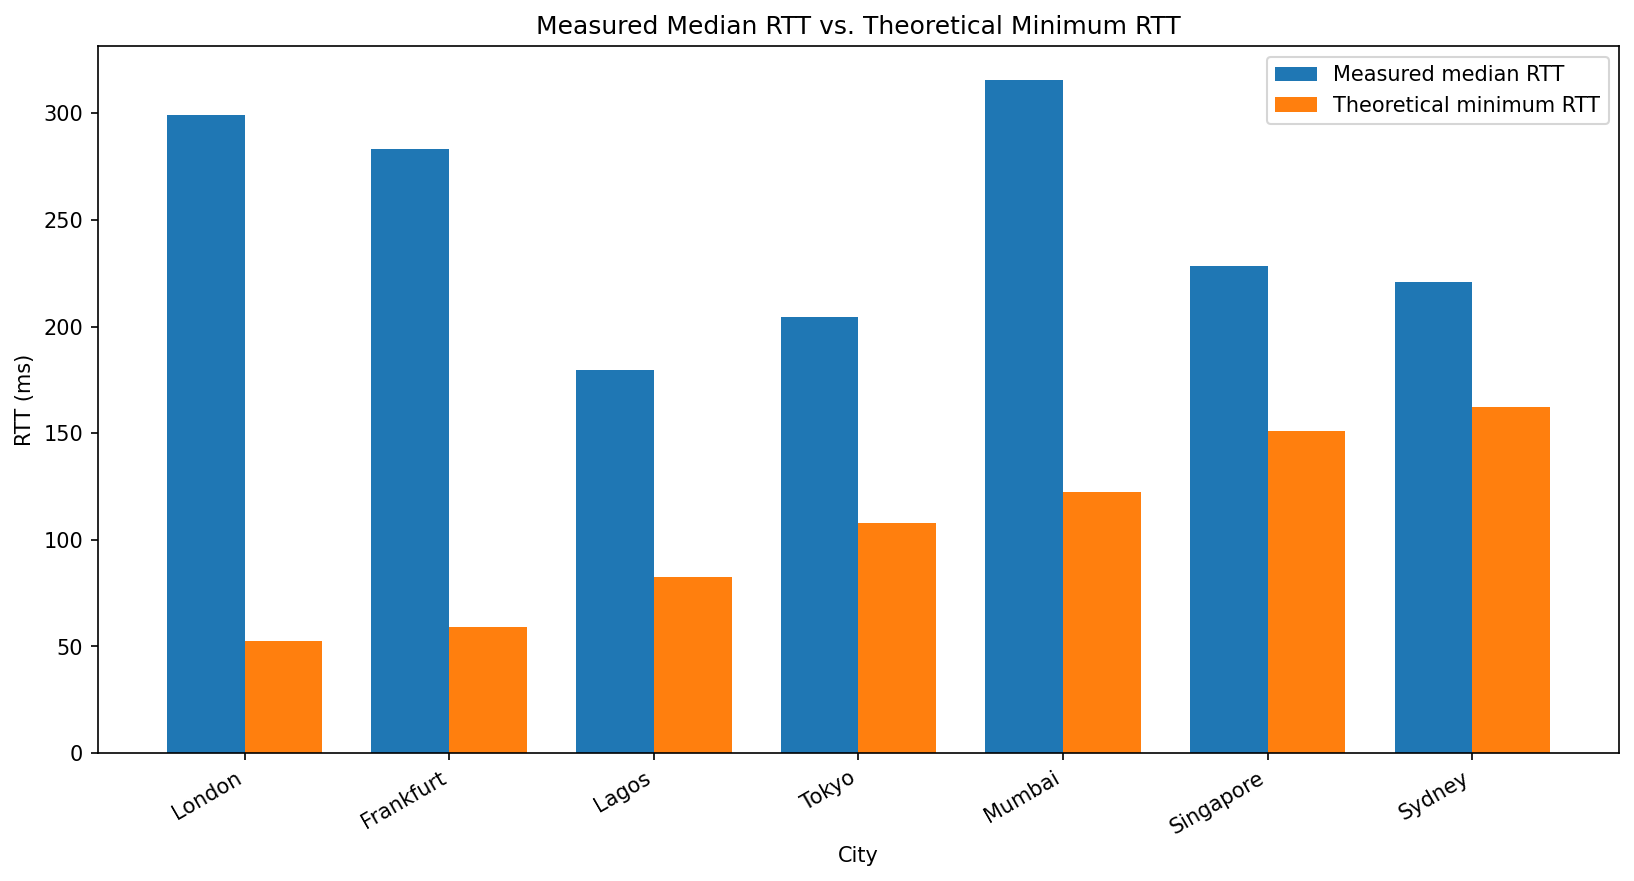
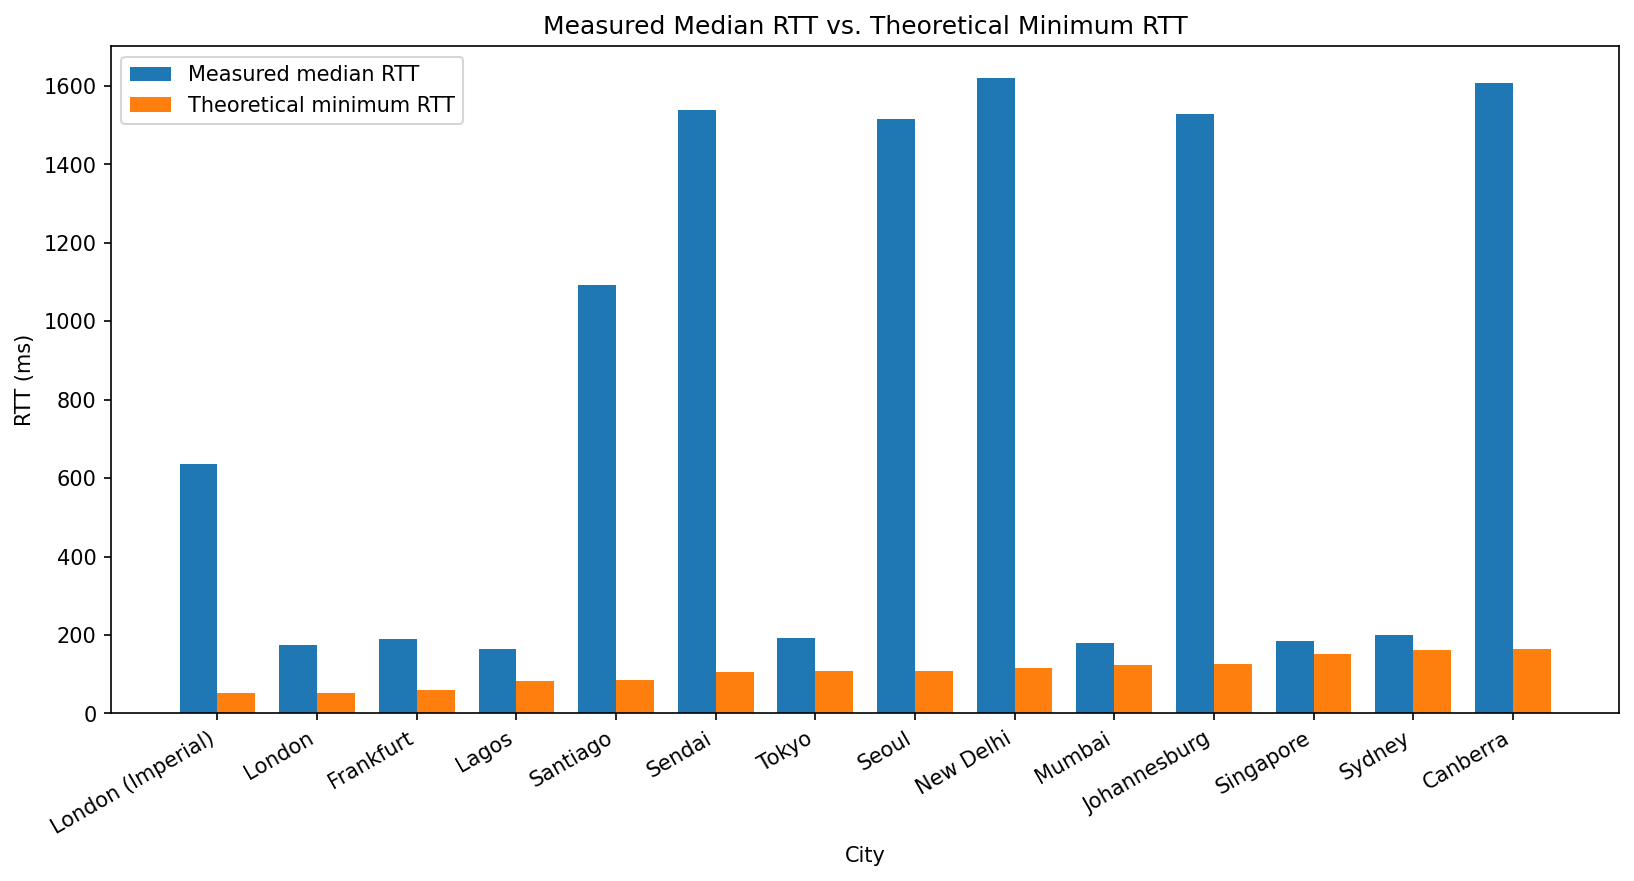
Updated analysis for new targets

diff --git a/rtt_speedoflight.py b/rtt_speedoflight.py
@@ -13,14 +13,22 @@ import urllib.request
 # ─────────────────────────────────────────────
 
 TARGETS = {
-    "Tokyo":        {"url": "http://www.google.co.jp",   "coords": (35.6762,  139.6503), "continent": "Asia"},
-    "São Paulo":    {"url": "http://www.google.com.br",  "coords": (-23.5505, -46.6333), "continent": "S. America"},
-    "Lagos":        {"url": "http://www.google.com.ng",  "coords": (6.5244,     3.3792), "continent": "Africa"},
-    "Frankfurt":    {"url": "http://www.google.de",      "coords": (50.1109,    8.6821), "continent": "Europe"},
-    "Sydney":       {"url": "http://www.google.com.au",  "coords": (-33.8688, 151.2093), "continent": "Oceania"},
-    "Mumbai":       {"url": "http://www.google.co.in",   "coords": (19.0760,   72.8777), "continent": "Asia"},
-    "London":       {"url": "http://www.google.co.uk",   "coords": (51.5074,   -0.1278), "continent": "Europe"},
-    "Singapore":    {"url": "http://www.google.com.sg",  "coords": (1.3521,   103.8198), "continent": "Asia"},
+    "Tokyo":                {"url": "http://www.google.co.jp",      "coords": (35.6762,  139.6503), "continent": "Asia"},
+    "São Paulo":            {"url": "http://www.google.com.br",     "coords": (-23.5505, -46.6333), "continent": "S. America"},
+    "Lagos":                {"url": "http://www.google.com.ng",     "coords": (6.5244,     3.3792), "continent": "Africa"},
+    "Frankfurt":            {"url": "http://www.google.de",         "coords": (50.1109,    8.6821), "continent": "Europe"},
+    "Sydney":               {"url": "http://www.google.com.au",     "coords": (-33.8688, 151.2093), "continent": "Oceania"},
+    "Mumbai":               {"url": "http://www.google.co.in",      "coords": (19.0760,   72.8777), "continent": "Asia"},
+    "London":               {"url": "http://www.google.co.uk",      "coords": (51.5074,   -0.1278), "continent": "Europe"},
+    "Singapore":            {"url": "http://www.google.com.sg",     "coords": (1.3521,   103.8198), "continent": "Asia"},
+    "Sendai":               {"url": "http://www.tohoku.ac.jp",      "coords": (38.2682, 140.8694),  "continent": "Asia"},
+    "Seoul":                {"url": "http://www.snu.ac.kr",         "coords": (37.5665, 126.9780),  "continent": "Asia"},
+    "New Delhi":            {"url": "http://www.iitd.ac.in",        "coords": (28.6139, 77.2090),   "continent": "Asia"},
+    "Santiago":             {"url": "http://www.uchile.cl",         "coords": (-33.4489, -70.6693), "continent": "S. America"},
+    "Johannesburg":         {"url": "http://www.wits.ac.za",        "coords": (-26.2041, 28.0473),  "continent": "Africa"},
+    "Berlin":               {"url": "http://www.fu-berlin.de",      "coords": (52.5200, 13.4050),   "continent": "Europe"},
+    "London (Imperial)":    {"url": "http://www.imperial.ac.uk",    "coords": (51.4988, -0.1749),   "continent": "Europe"},
+    "Canberra":             {"url": "http://www.anu.edu.au",        "coords": (-35.2809, 149.1300), "continent": "Oceania"},
 }
 
 PROBES           = 15

diff --git a/analysis.md b/analysis.md
@@ -2,19 +2,36 @@ Programming Assignment Analysis
 EECE 2540  
 Justin Glabicki
 
+
+
 1\) Highest Inefficiency Ratio  
-The city with the highest inefficiency ratio in my results is London, with a ratio of approximately 5.68. This is significantly higher than the typical expected range of \~1.5–3 for well-routed paths, indicating substantial routing inefficiency.  
-Looking at submarine cable infrastructure (e.g., via submarinecablemap.com), London is served by numerous transatlantic fiber cables connecting Europe and North America, such as MAREA, AC-1, and others. In theory, this should allow for relatively direct and efficient routing between the U.S. and London. However, the high observed RTT suggests that my traffic did not take a direct transatlantic path. Instead, it was likely routed through multiple intermediate networks or exchange points, possibly due to ISP peering policies, congestion, or suboptimal routing decisions.  
-This highlights that even when strong physical infrastructure exists, actual internet routing depends on economic agreements and network policies, not just geography. As a result, packets may take longer, indirect paths that significantly increase latency.
+The city with the highest inefficiency ratio in my results is Sendai, with a ratio of approximately 14.68, followed closely by New Delhi (14.11) and Seoul (13.86). These values are far above the typical range of \~1.5–3, indicating extreme inefficiency.
+
+Unlike earlier measurements using Google endpoints, these results come from university websites, which are not optimized for low-latency global access. While Japan and South Korea have strong submarine cable connectivity (transpacific cables linking Asia and North America), the high RTTs suggest that the delay is not primarily due to physical distance or cable routing. Instead, it is likely caused by server-side processing delays, congestion, or limited optimization of these institutional web servers.
+
+This demonstrates that RTT measurements using HTTP requests include not only propagation delay through fiber but also application-layer delays, such as server response time. As a result, endpoints that are not optimized for performance can produce extremely high inefficiency ratios, even if the underlying network path is relatively direct.
+
+
 
 2\) City Closest to Theoretical Minimum  
-The city closest to the theoretical minimum RTT is Sydney, with an inefficiency ratio of approximately 1.36, followed closely by Singapore (1.51).  
-A ratio close to 1 indicates that the measured RTT is relatively close to the physical limit imposed by the speed of light in fiber. This suggests that routing to Sydney is relatively efficient despite the large geographic distance. The likely reason is that major transoceanic routes (such as transpacific cables) are well-developed and optimized, allowing traffic to follow a relatively direct path with fewer detours.  
-This tells us that routing infrastructure along this path is well-optimized, with good peering agreements and relatively direct long-haul fiber routes. It demonstrates that long distance does not necessarily imply inefficiency. What matters more is how direct and well-connected the network path is.
+The city closest to the theoretical minimum RTT is Singapore, with an inefficiency ratio of approximately 1.21, followed by Sydney (1.23) and Mumbai (1.48).
+
+A ratio close to 1 indicates that the measured RTT is relatively close to the physical limit imposed by the speed of light in fiber. This suggests that routing to these locations is highly efficient despite the large geographic distance. The likely reason is that these routes rely on well-developed transoceanic fiber infrastructure, such as transpacific and inter-Asia cable systems, combined with strong peering and routing optimization.
+
+This result shows that long-distance communication can still be efficient if the network path is direct and well-connected. It reinforces that network topology and routing efficiency matter more than raw distance alone.
+
+
 
 3\) Why Traffic to Lagos Routes Through Europe  
-The RTT and inefficiency ratio for Lagos (2.17) suggest moderate inefficiency, and traffic from the U.S. to Lagos is likely routed through Europe rather than directly to West Africa.  
-This occurs because Africa’s internet infrastructure is less interconnected internally and globally compared to Europe or North America. Many submarine cables serving West Africa (such as WACS and ACE) connect African countries primarily to European landing points rather than directly to North America. As a result, packets often travel from the U.S. to Europe to West Aftica instead of taking a more direct transatlantic route.  
-This routing pattern is driven by limited direct U.S.-West Africa cable capacity, stronger peering and exchange infrastructure in Europe, and the historical development of network connectivity centered around Europe.  
-To improve this, more direct submarine cables between North America and West Africa, along with improved regional internet exchange points (IXPs) within Africa, would be needed. Better local interconnection and peering would reduce reliance on European transit and bring RTTs closer to the theoretical minimum.
+The RTT and inefficiency ratio for Lagos (\~2.0) suggest moderate inefficiency, and traffic from the U.S. to Lagos is likely routed through Europe rather than directly to West Africa.
+
+This occurs because Africa’s internet infrastructure is less interconnected globally compared to Europe or North America. Many submarine cables serving West Africa (such as WACS and ACE) primarily connect African countries to European landing points rather than directly to North America. As a result, packets often travel:
+
+U.S. -> Europe -> West Africa
+
+instead of taking a more direct transatlantic route.
+
+This routing pattern is driven by limited U.S.-West Africa cable capacity, stronger peering and exchange infrastructure in Europe, and historical development of global network connectivity centered around Europe.
+
+To improve this, more direct submarine cables between North America and West Africa, along with stronger regional Internet Exchange Points (IXPs) within Africa, would be needed. These changes would reduce reliance on European transit and bring RTTs closer to the theoretical minimum.
 
